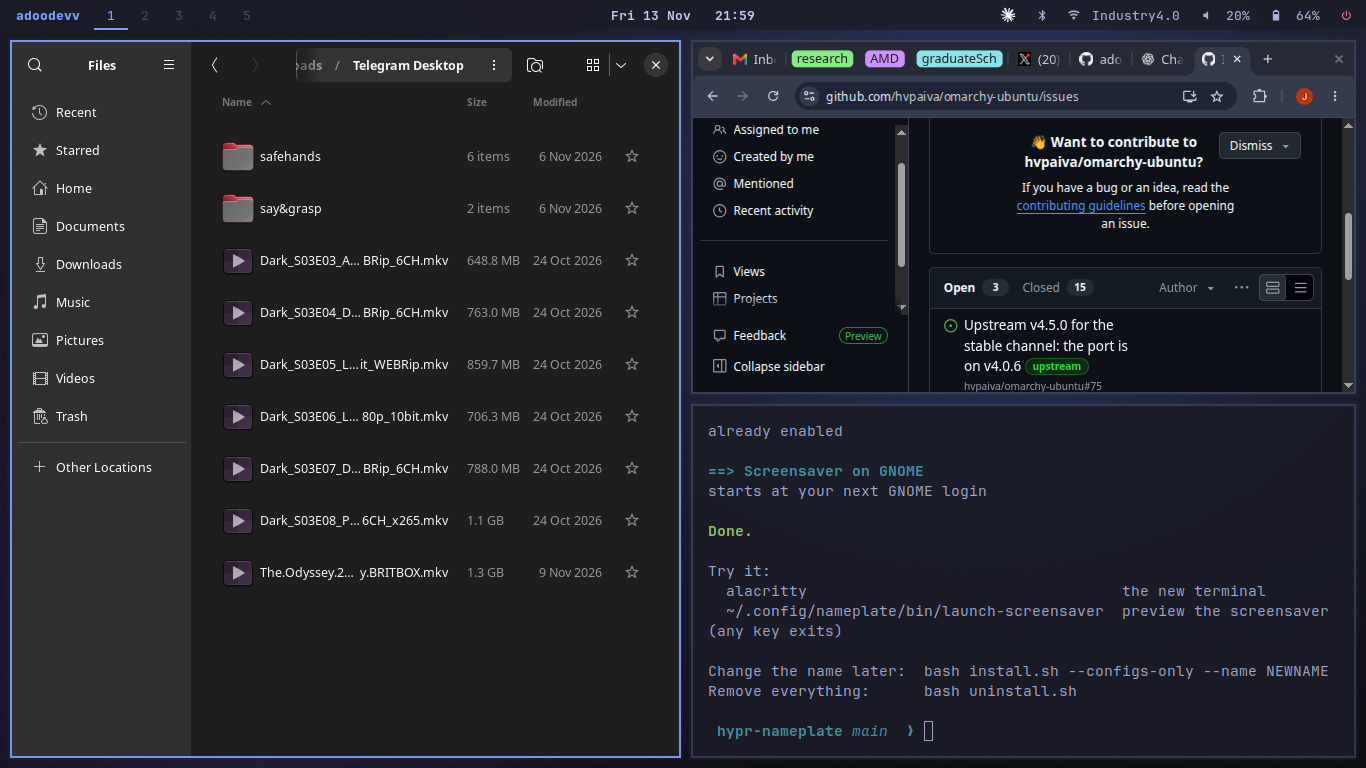
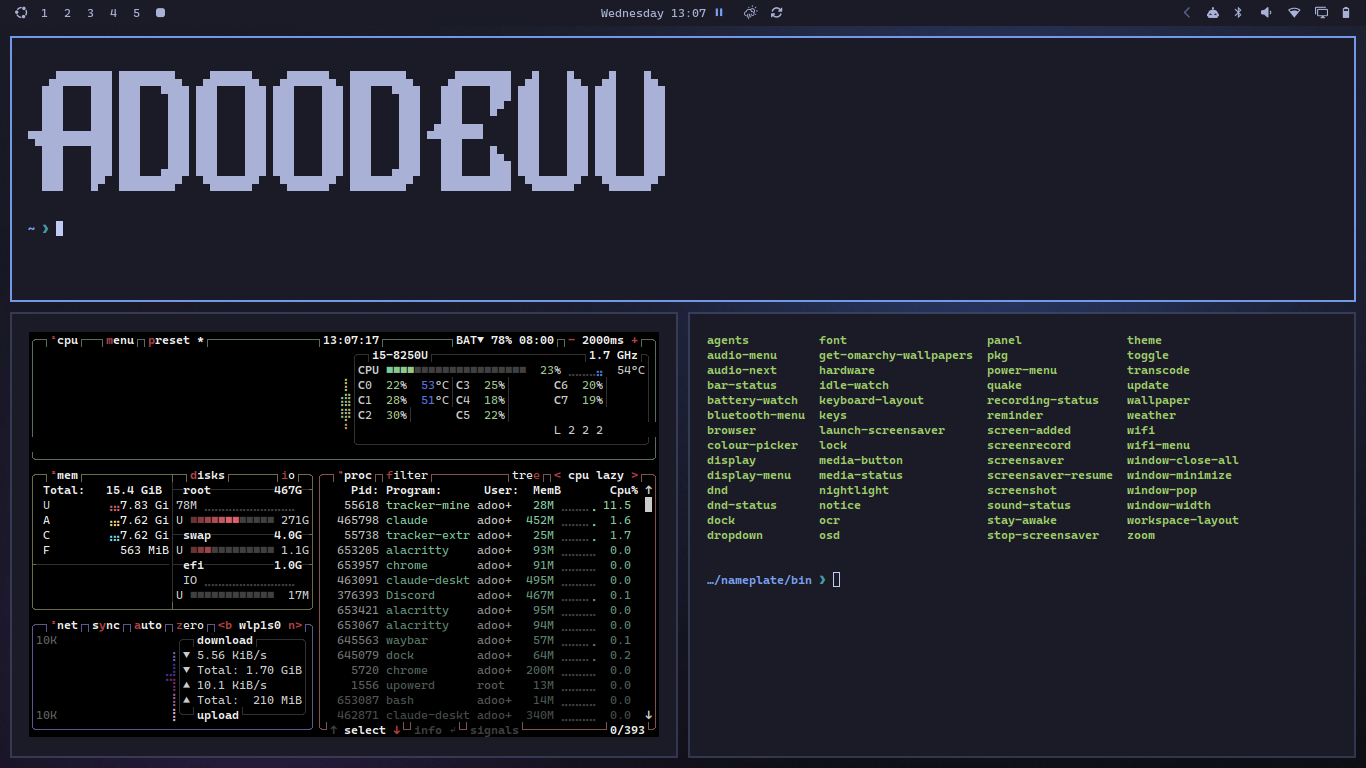
Screenshots: current bar and main menu, drop the stale ones
desktop.png showed the old bar with the name in it; retake it in the
default Tokyo Night look and add the main menu next to the screensaver.
Remove bar, launcher, lock and terminal shots, which nothing links to and
which showed the pre-Omarchy-4 look. The screenshots README now says how
to retake them without anything personal on screen.

diff --git a/docs/screenshots/README.md b/docs/screenshots/README.md
@@ -1,14 +1,27 @@
 # Screenshots
 
-The main README expects these files in this folder:
+The main README uses these files:
 
 | File | Shows |
 |---|---|
-| `desktop.png` | Two or three tiled windows with the top bar (the hero image) |
-| `screensaver.gif` | The name animating on the screensaver (a `.png` works too; update the README link) |
-| `lock.png` | The lock screen: name and password box |
-| `launcher.png` | The app launcher open over the desktop |
-| `terminal.png` | Alacritty with the prompt inside a git repository |
-| `bar.png` | A close crop of the top bar |
+| `desktop.png` | Tiled terminals under the top bar, in the default Tokyo Night theme (the hero image) |
+| `menu.png` | The main menu (SUPER + SPACE) open over the same desktop |
+| `screensaver.gif` | The name animating on the screensaver |
 
-See "Taking the screenshots" in the main README for the commands.
+Take them at 1366x768 or larger on an empty workspace, in the default theme and
+wallpaper, with nothing personal on screen (media playing shows in the calendar,
+tray icons and btop show your apps).
+
+```bash
+~/.config/nameplate/bin/theme set tokyo-night --keep-wallpaper
+~/.config/nameplate/bin/wallpaper set ~/.config/nameplate/wallpaper.png
+grim docs/screenshots/desktop.png                       # the whole screen
+~/.config/nameplate/bin/panel menu; sleep 1.5; grim docs/screenshots/menu.png
+
+# the screensaver as a GIF (sudo apt install wf-recorder ffmpeg)
+~/.config/nameplate/bin/launch-screensaver & sleep 1
+wf-recorder -f /tmp/saver.mp4 & sleep 12; pkill -INT wf-recorder
+ffmpeg -i /tmp/saver.mp4 -vf "fps=15,scale=960:-1" docs/screenshots/screensaver.gif
+```
+
+Put your own theme and wallpaper back afterwards.

diff --git a/README.md b/README.md
@@ -56,7 +56,9 @@ screensaver to GNOME. It doesn't use the PPA or install Hyprland.
 - Clipboard history, an emoji picker, screenshots, screen recording, a screen switcher for projectors,
   volume and brightness popups, and low-battery warnings.
 
-![The screensaver](docs/screenshots/screensaver.gif)
+| Main menu | Screensaver |
+|---|---|
+| ![The main menu](docs/screenshots/menu.png) | ![The screensaver](docs/screenshots/screensaver.gif) |
 
 ## Keys
 
